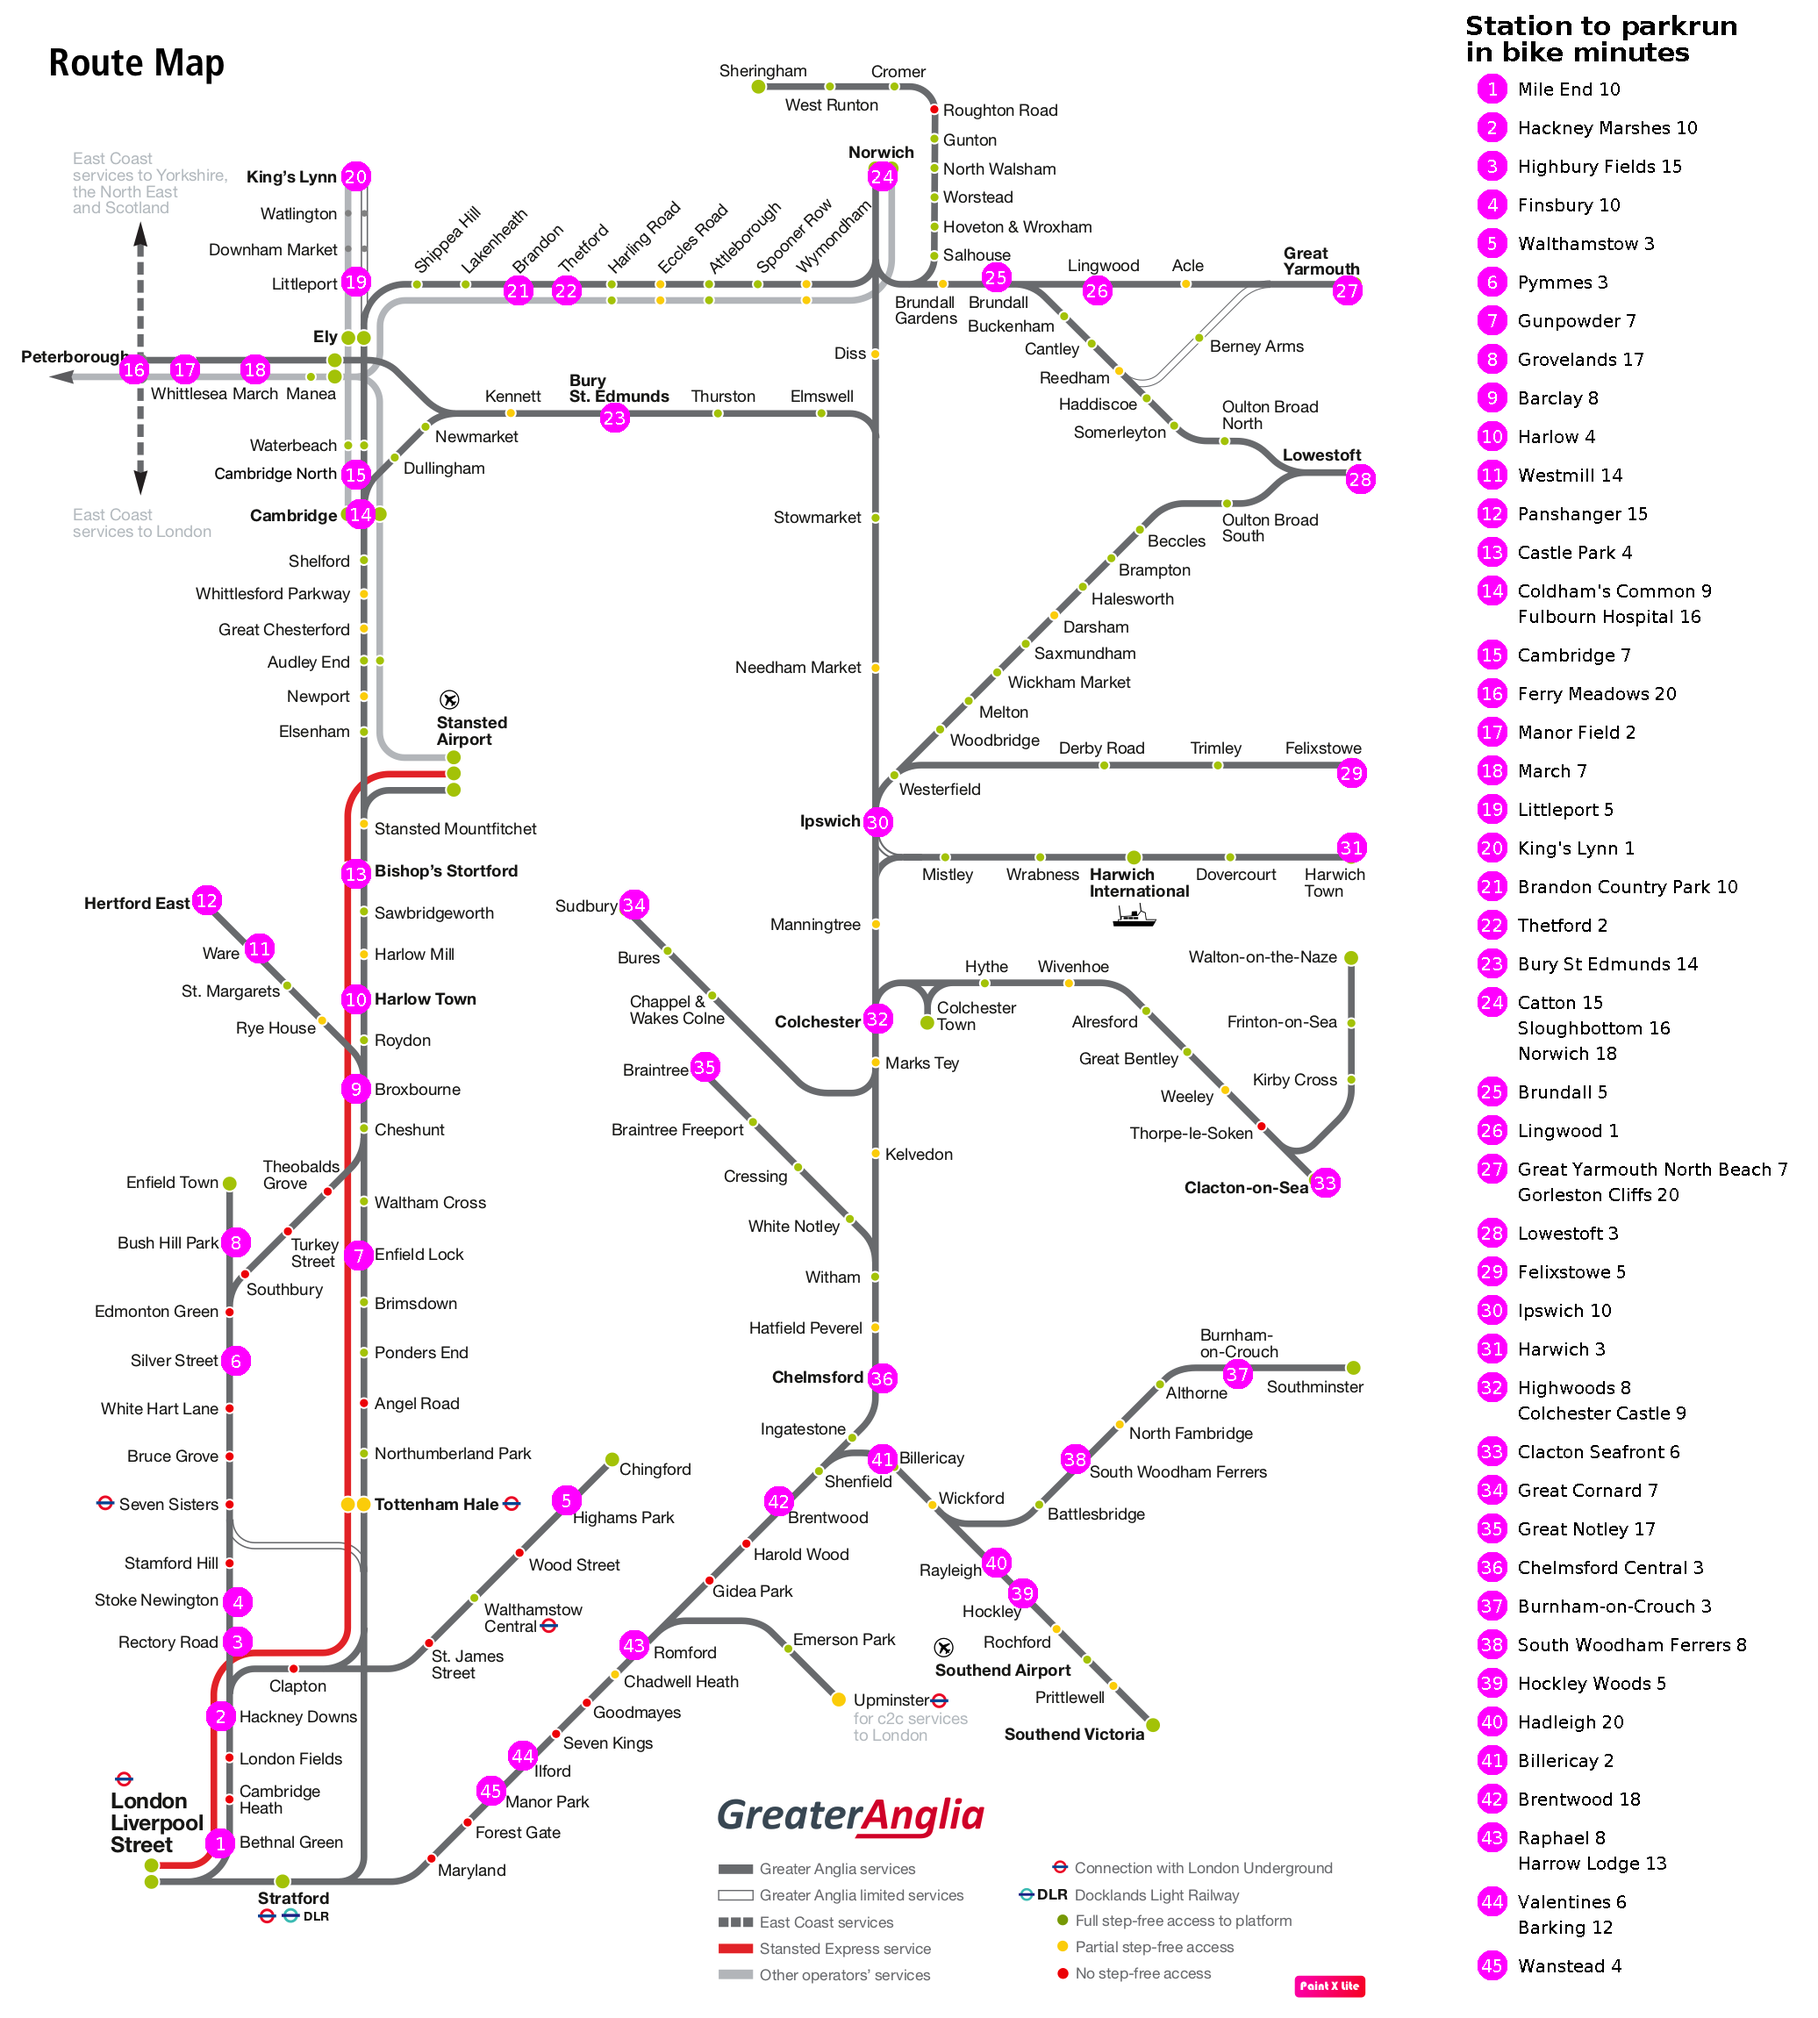
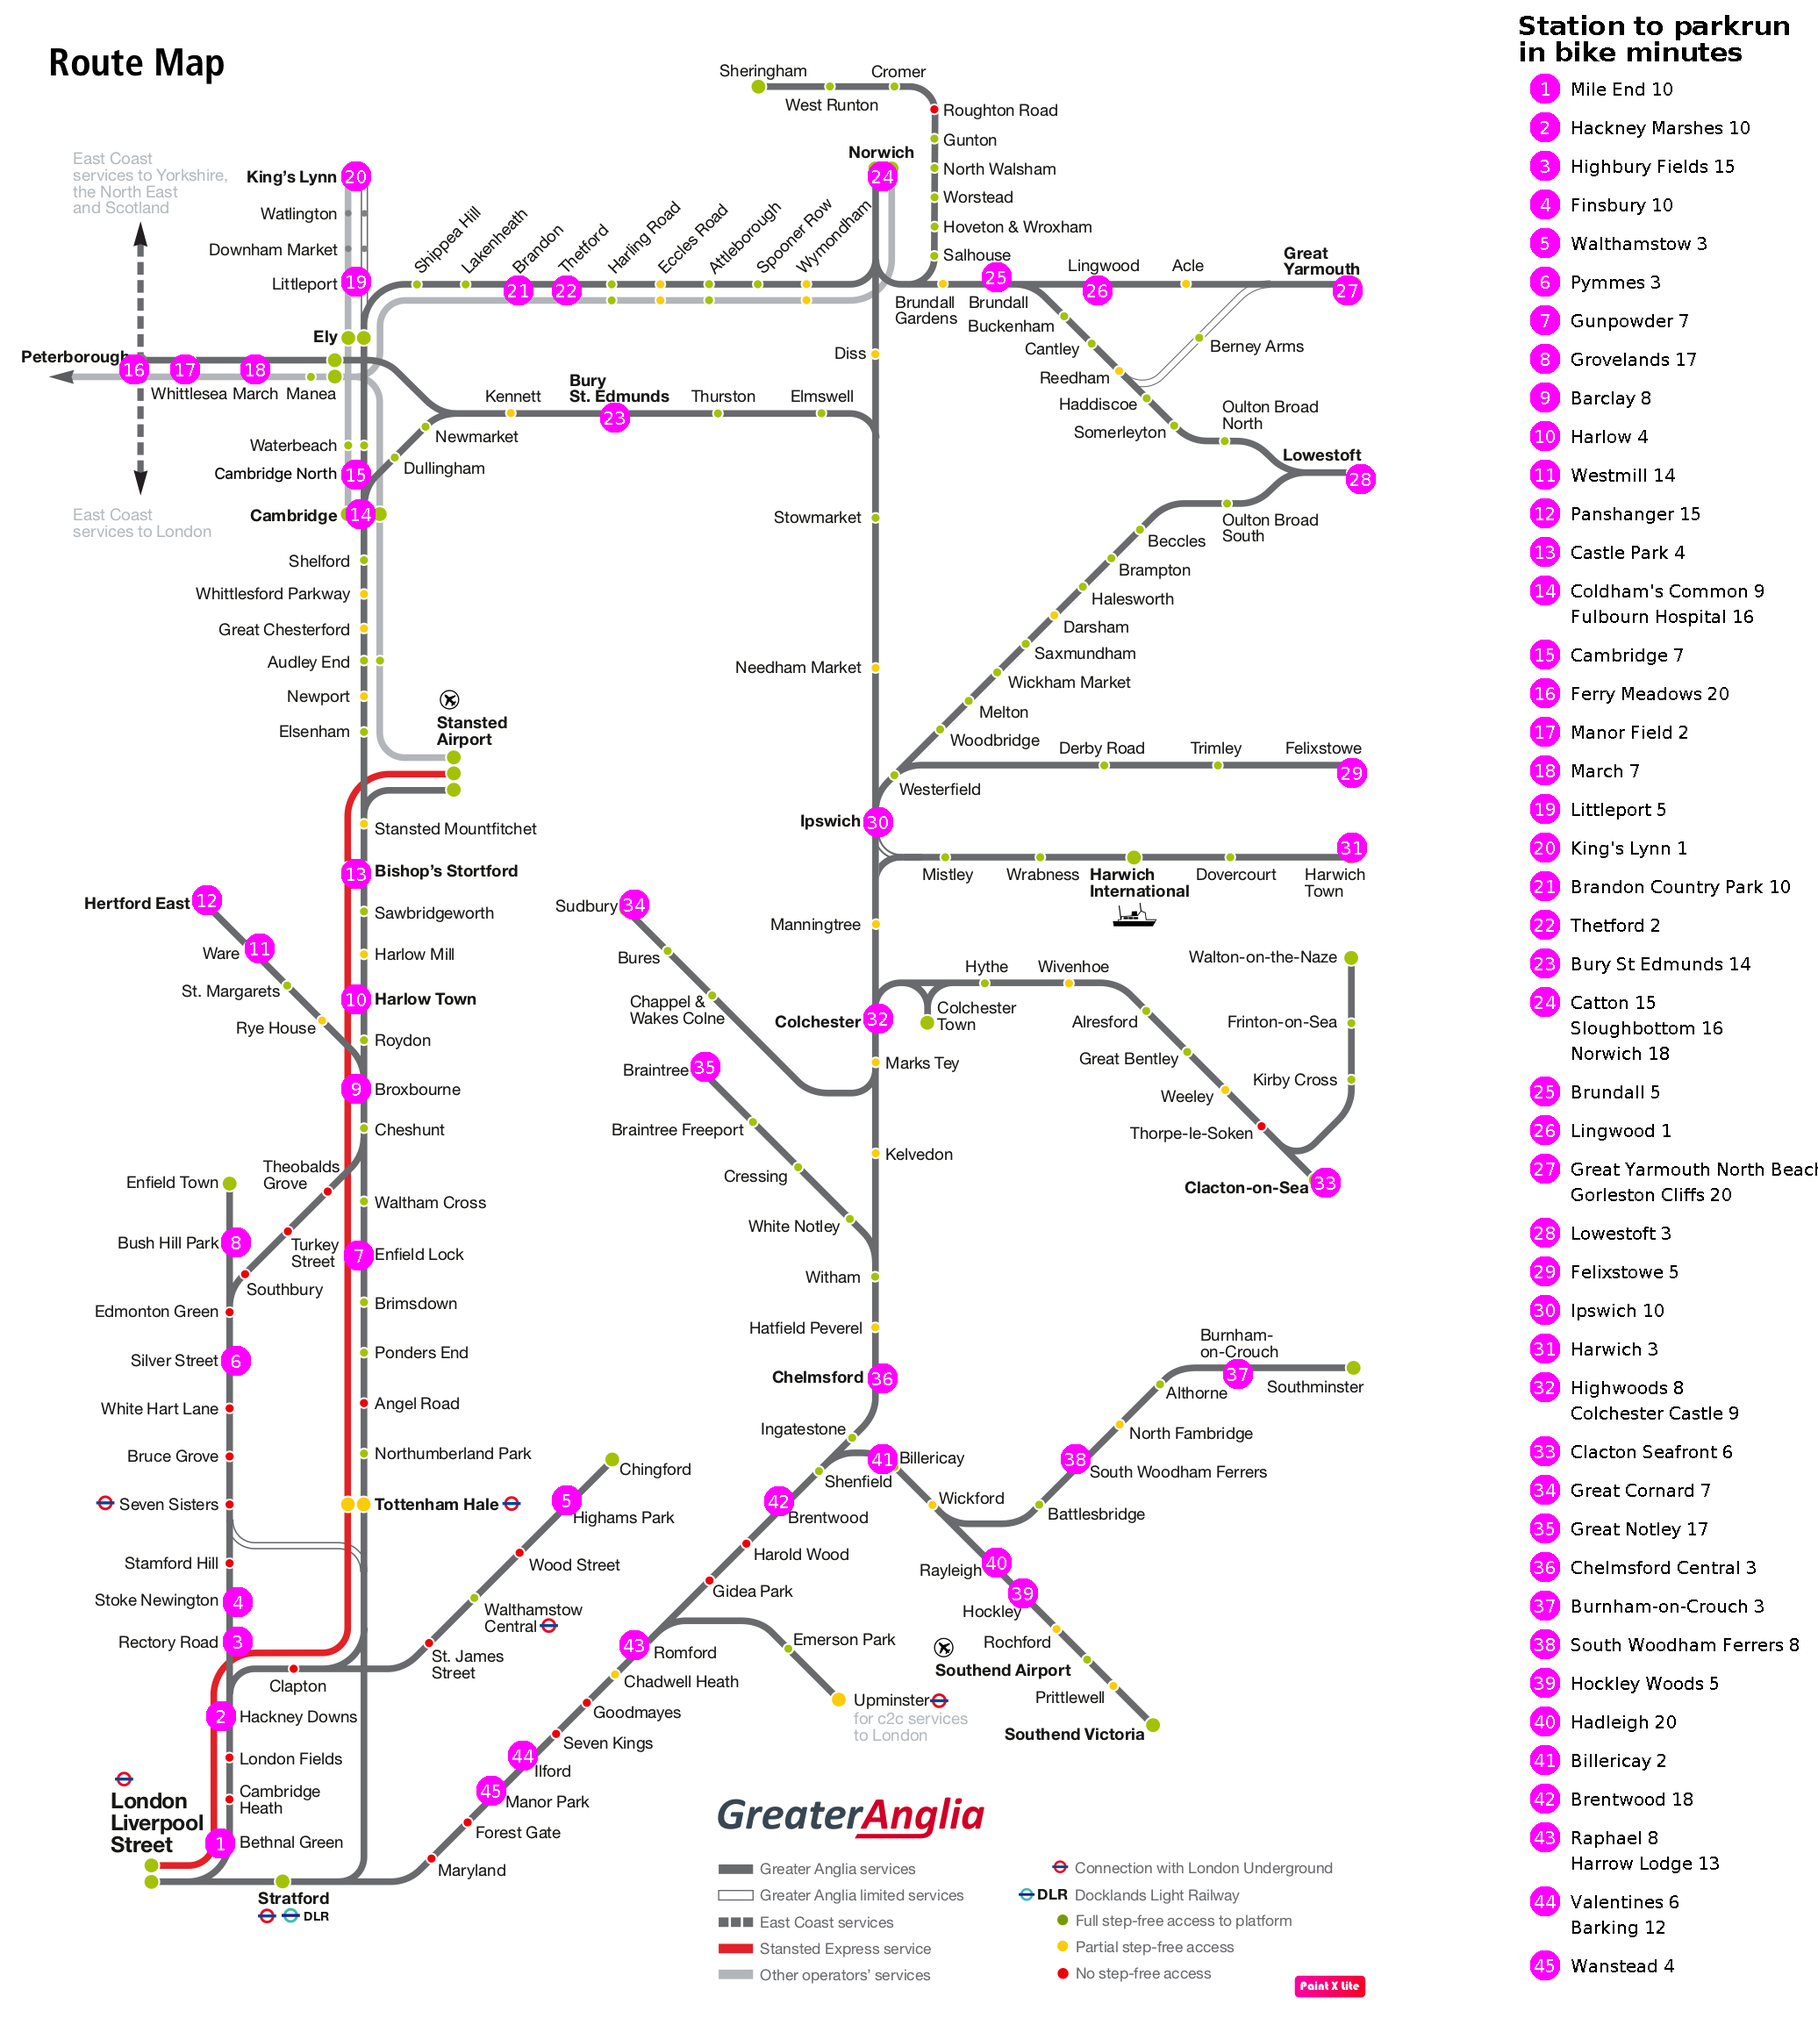
Normalized sort order.  Expanded README.

Changed region(s): [[0.8031, 0.0, 0.9884, 0.9878]]

diff --git a/src/org/computronium/parkrunmap/ParkrunMap.kt b/src/org/computronium/parkrunmap/ParkrunMap.kt
@@ -3,9 +3,7 @@ package org.computronium.parkrunmap
 import java.awt.Color
 import java.awt.Graphics2D
 import java.awt.image.BufferedImage
-import java.io.BufferedReader
 import java.io.File
-import java.io.FileReader
 import javax.imageio.ImageIO
 
 
@@ -32,50 +30,11 @@ fun main(args: Array<String>) {
     ImageIO.write(background, outputFileExtension, File(config.outputFile))
 }
 
-private fun readParkruns(config: Config): Map<Station, List<Parkrun>> {
-
-    val parkrunsByStation = mutableMapOf<Station, MutableList<Parkrun>>()
-    val stationsByName = mutableMapOf<String, Station>()
-
-    val csvReader = BufferedReader(FileReader(config.dataFile))
-
-    csvReader.readLine()    // skip the header line
-
-    var row :String?
-
-    while (csvReader.readLine().also { row = it?.trim() } != null) {
-
-        println("row = $row")
-
-        val data: List<String> = row!!.split("\t")
-
-        val bikeMinutes = data[6].toInt()
-
-        if (bikeMinutes <= config.maxBikeMinutes) {
-            val stationName = data[2]
-            var station = stationsByName[stationName]
-            if (station == null) {
-                station = Station(stationName, data[3].toInt(), data[4].toInt(), data[5].toInt())
-                stationsByName[stationName] = station
-            }
-
-            var parkrunsAtStation = parkrunsByStation[station]
-            if (parkrunsAtStation == null) {
-                parkrunsAtStation = mutableListOf()
-                parkrunsByStation[station] = parkrunsAtStation
-            }
-
-            parkrunsAtStation.add(Parkrun(data[0], data[1], station, data[6].toInt()))
-        }
-    }
-    return parkrunsByStation
-}
-
 private fun drawStations(config: Config, stations: Set<Station>, g: Graphics2D) {
 
     g.font = config.dotFont
-    for (station in stations) {
-        drawDot(config, station.mapX!!, station.mapY!!, station.mapLabel.toString(), g)
+    for ((index, station) in stations.withIndex()) {
+        drawDot(config, station.mapX!!, station.mapY!!, (index+1).toString(), g)
     }
 }
 
@@ -102,9 +61,9 @@ private fun drawIndex(config: Config, parkruns: Map<Station, List<Parkrun>>, g: 
     g.font = config.indexFont
 
     val fm = g.fontMetrics
-    for (station in parkruns.keys.sortedBy { it.mapLabel }) {
+    for ((index, station) in parkruns.keys.withIndex()) {
 
-        drawDot(config, x+30, y, station.mapLabel.toString(), g)
+        drawDot(config, x+30, y, (index+1).toString(), g)
 
         g.color = config.indexTextColor
         for (parkrun in parkruns[station] ?: error("whaaa")) {
@@ -129,6 +88,6 @@ private fun drawGridLines(g: Graphics2D, img: BufferedImage) {
     }
 }
 
-private data class Station(val name: String, var mapX: Int?, var mapY: Int?, val mapLabel: Int?)
+data class Station(val name: String, var mapX: Int?, var mapY: Int?, val sortOrder: Float?)
 
-private data class Parkrun(val name: String, val location: String, val station: Station, val bikeMinutes: Int)
+data class Parkrun(val name: String, val location: String, val station: Station, val bikeMinutes: Int)

diff --git a/src/org/computronium/parkrunmap/DataReader.kt b/src/org/computronium/parkrunmap/DataReader.kt
@@ -1,0 +1,45 @@
+package org.computronium.parkrunmap
+
+import java.io.BufferedReader
+import java.io.FileReader
+import java.util.*
+
+
+fun readParkruns(config: Config): SortedMap<Station, List<Parkrun>> {
+
+    val parkrunsByStation = mutableMapOf<Station, MutableList<Parkrun>>()
+    val stationsByName = mutableMapOf<String, Station>()
+
+    val csvReader = BufferedReader(FileReader(config.dataFile))
+
+    csvReader.readLine()    // skip the header line
+
+    var row :String?
+
+    while (csvReader.readLine().also { row = it?.trim() } != null) {
+
+        println("row = $row")
+
+        val data: List<String> = row!!.split("\t")
+
+        val bikeMinutes = data[6].toInt()
+
+        if (bikeMinutes <= config.maxBikeMinutes) {
+            val stationName = data[2]
+            var station = stationsByName[stationName]
+            if (station == null) {
+                station = Station(stationName, data[3].toInt(), data[4].toInt(), data[5].toFloat())
+                stationsByName[stationName] = station
+            }
+
+            var parkrunsAtStation = parkrunsByStation[station]
+            if (parkrunsAtStation == null) {
+                parkrunsAtStation = mutableListOf()
+                parkrunsByStation[station] = parkrunsAtStation
+            }
+
+            parkrunsAtStation.add(Parkrun(data[0], data[1], station, data[6].toInt()))
+        }
+    }
+    return parkrunsByStation.toSortedMap(compareBy { it.sortOrder })
+}

diff --git a/README.md b/README.md
@@ -33,3 +33,31 @@ The executable class is org.computronium.parkrunmap.ParkrunMap.  The program acc
 
     -y INDEX_Y, --index-y INDEX_Y
         Put the map index at the given y coordinate.
+
+## Example
+
+This is how to generate the example shown above with the input files mentioned above:
+
+    java org.computronium.parkrunmap.ParkrunMap -d resources/parkruns.tsv -b resources/source.png -o output/GreaterAngliaParkruns.png -m 20 -x 1730 -y 40
+
+## Data file format
+
+The data file should be a tab-separated tsv file.  The first row is considered a header line and is ignored.  The columns are:
+
+Column 1: **Parkrun name** -- The name of the parkrun.
+
+Column 2: **Location** -- The location, for reference (not used by the generator).
+
+Column 3: **Nearest station** -- The name of station closest to the parkrun.
+
+Column 4: **Index X** -- The x coordinate of where to create the index.
+
+Column 5: **Index Y** -- The y coordinate of where to create the index.
+
+Column 6: **Sort** -- A number used to sort the stations in the index.  Numbers in the column are only relative and
+will be normalized.  For example, a map with only 3 parkruns numbered 1, 1.5, and 2 will be generated as markers 1, 2, 3.
+This allows you to insert and remove items, or to change the maximum bike time, without having to generate all new
+marker numbers.
+
+Column 7: **Maximum bike time** -- Tells the generator to only show parkruns within this many minutes by bike from
+their nearest station.
